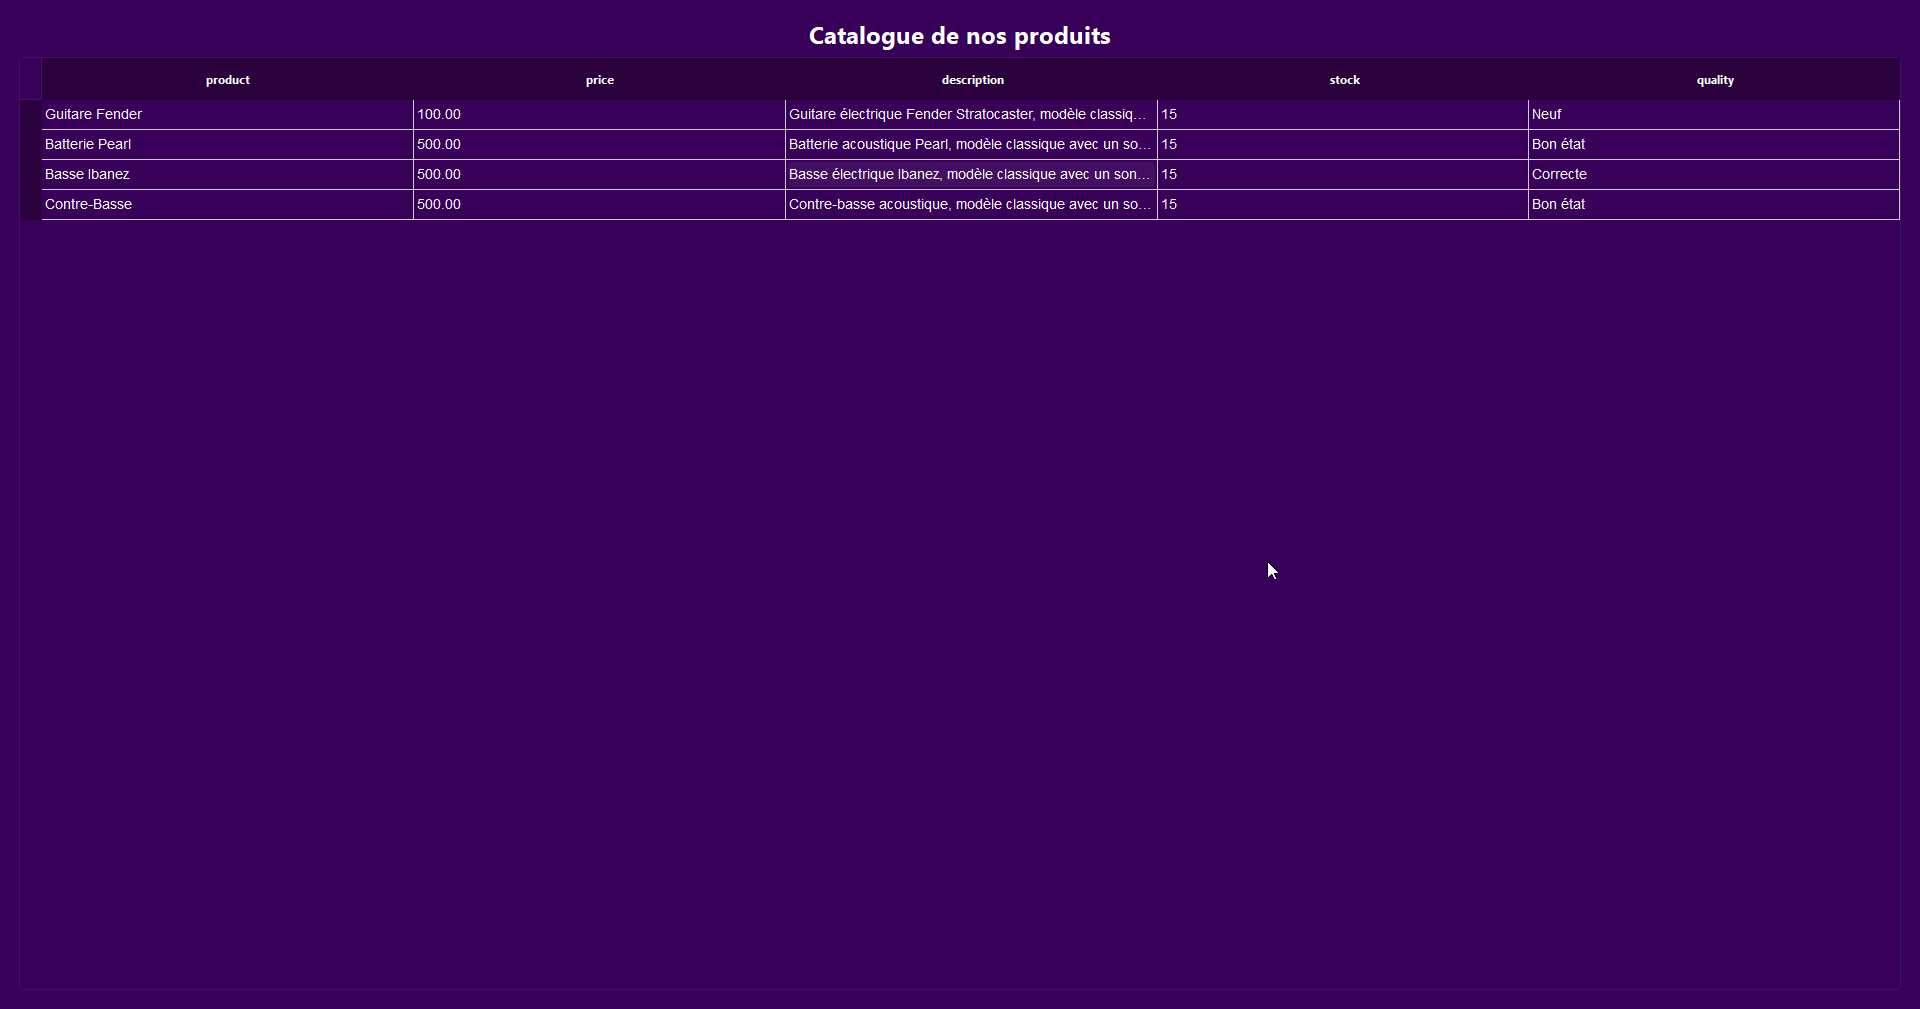
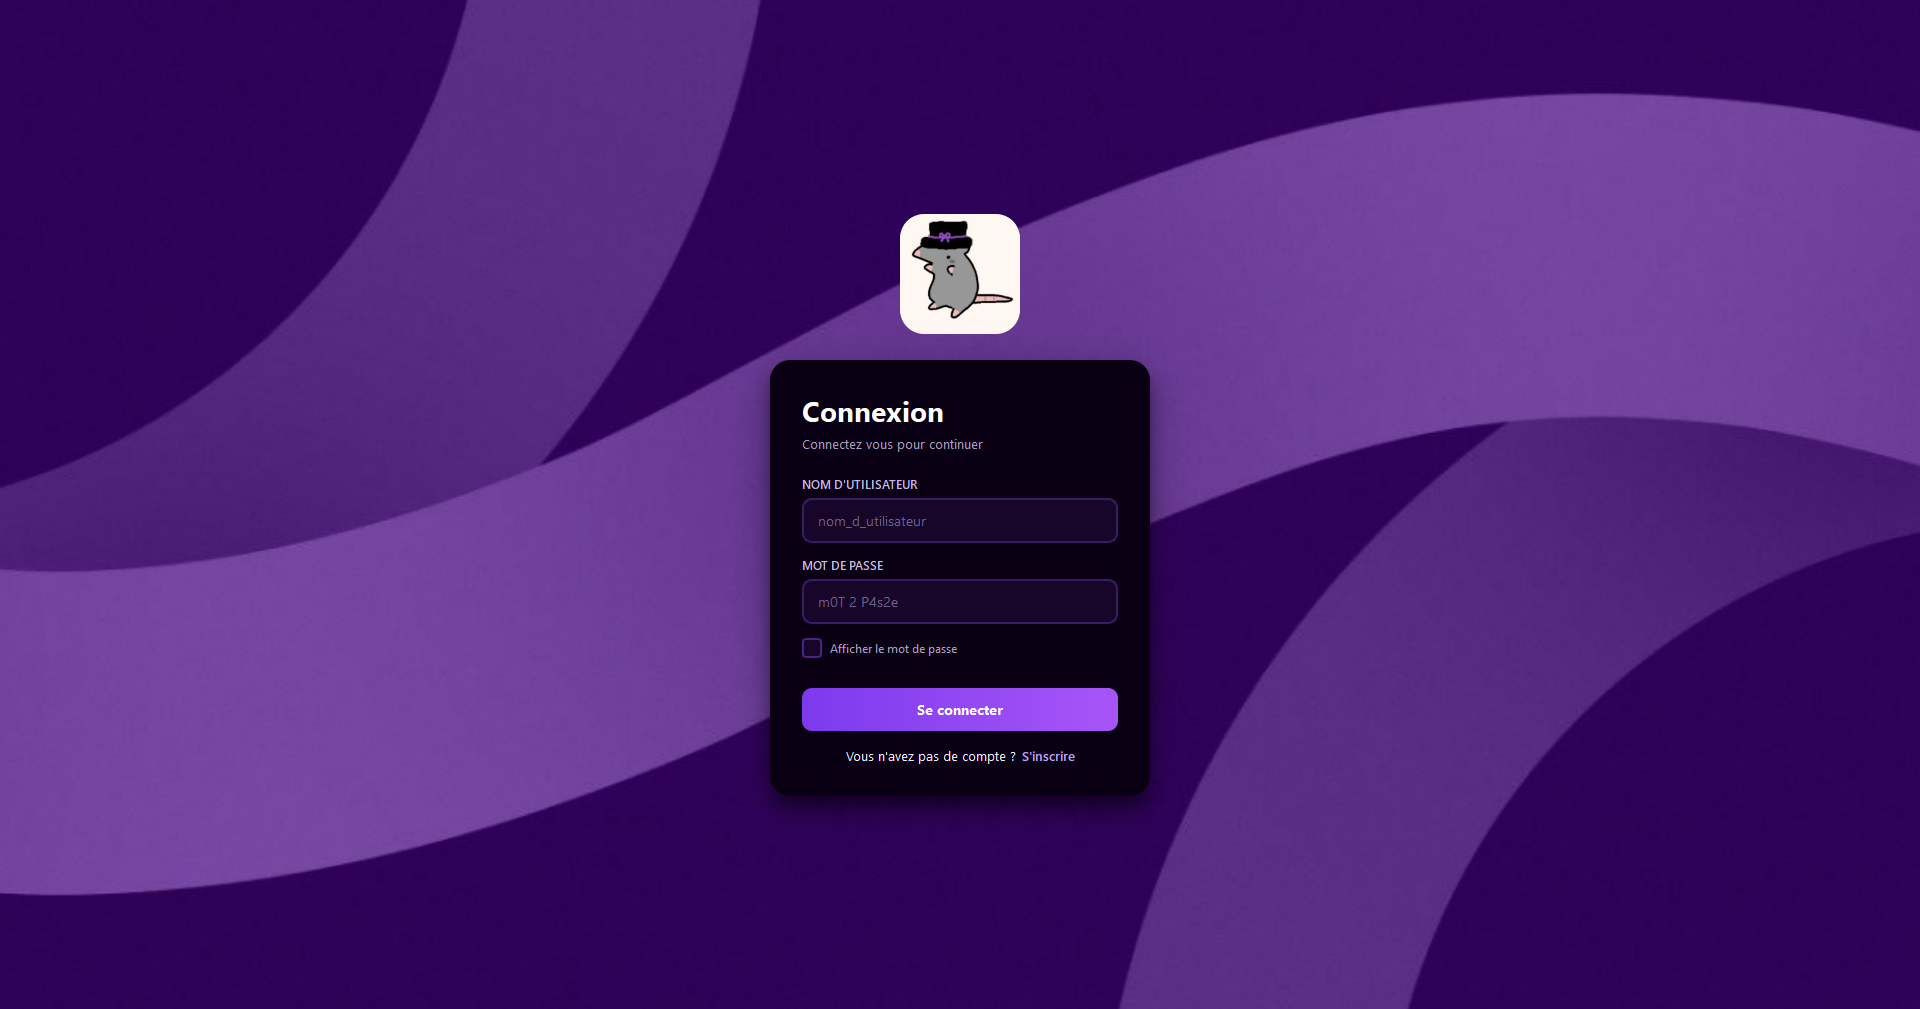
flash intro + user pp

diff --git a/app.py b/app.py
@@ -1,10 +1,14 @@
 from __future__ import annotations
 
-from PyQt6.QtCore import Qt
-from PyQt6.QtGui import QColor, QPainter, QPixmap, QPaintEvent, QResizeEvent
+from PyQt6.QtCore import Qt, QPropertyAnimation, QRectF, QSequentialAnimationGroup
+from PyQt6.QtGui import (
+    QColor, QFont, QFontDatabase, QIcon, QKeyEvent, QPainter, QPainterPath,
+    QPaintEvent, QPixmap, QResizeEvent, QShowEvent,
+)
 from PyQt6.QtWidgets import (
     QApplication, QCheckBox, QComboBox, QDialog, QFrame, QGraphicsDropShadowEffect, QHBoxLayout, QLabel,
-    QLineEdit, QMainWindow, QPushButton, QSizePolicy, QStackedWidget, QVBoxLayout, QWidget, QListView
+    QLineEdit, QMainWindow, QPushButton, QSizePolicy, QStackedWidget, QVBoxLayout, QWidget, QListView,
+    QGraphicsOpacityEffect,
 )
 
 from dataclasses import dataclass
@@ -21,6 +25,12 @@ import src.config as config
 BASE_DIR: Final[Path] = Path(__file__).parent
 STYLESHEET_PATH: Final[Path] = BASE_DIR / "assets/style.qss"
 CARD_WIDTH: Final[int] = 380
+FAVICON_PATH: Final[Path] = BASE_DIR / "assets/img/favicon.png"
+ICON_PATH: Final[Path] = BASE_DIR / "assets/img/icon.png"
+USER_PLACEHOLDER_PATH: Final[Path] = BASE_DIR / "assets/img/user.png"
+BACKGROUND_PATH: Final[Path] = BASE_DIR / "assets/img/background.png"
+BACKGROUND_HOLES_PATH: Final[Path] = BASE_DIR / "assets/img/holes_background.png"
+FONT_PATH: Final[Path] = BASE_DIR / "assets/font/Kablammo/Kablammo-Regular-VariableFont_MORF.ttf"
 
 # CONFIG AUTO DE L'APP
 HEADERT: list[type]
@@ -107,7 +117,37 @@ class BackgroundWidget(QWidget):
         painter.drawPixmap(x, y, self._scaled)
         painter.end()
 
-def make_background(card: QFrame, bg_path: Path) -> QWidget:
+class RoundedImage(QWidget):
+    """Image carrée aux coins arrondis.
+    """
+
+    def __init__(self, image_path: Path, size: int = 120, radius: int = 24) -> None:
+        super().__init__()
+        self.setFixedSize(size, size)
+        self._radius: int = radius
+        self._pixmap: QPixmap = QPixmap(str(image_path))
+        if not self._pixmap.isNull():
+            self._pixmap = self._pixmap.scaled(
+                self.size(),
+                Qt.AspectRatioMode.KeepAspectRatioByExpanding,
+                Qt.TransformationMode.SmoothTransformation,
+            )
+
+    def paintEvent(self, event: QPaintEvent | None) -> None:
+        painter = QPainter(self)
+        painter.setRenderHint(QPainter.RenderHint.Antialiasing)
+        path = QPainterPath()
+        path.addRoundedRect(QRectF(self.rect()), self._radius, self._radius)
+        painter.setClipPath(path)
+        if self._pixmap.isNull():
+            painter.fillPath(path, QColor("#020202"))  # Noir si il n'y a pas d'image
+        else:
+            x = (self.width() - self._pixmap.width()) // 2
+            y = (self.height() - self._pixmap.height()) // 2
+            painter.drawPixmap(x, y, self._pixmap)
+        painter.end()
+
+def make_background(card: QFrame, header: QWidget | None = None, bg_path: Path = BACKGROUND_PATH) -> QWidget:
     """Crée le widget d'arrière plan avec une carte au centre.
 
     Args:
@@ -122,6 +162,9 @@ def make_background(card: QFrame, bg_path: Path) -> QWidget:
  
     layout = QVBoxLayout(root)
     layout.addStretch()
+    if header is not None:
+        layout.addWidget(header, alignment=Qt.AlignmentFlag.AlignHCenter)
+        layout.addSpacing(20)
     layout.addWidget(card, alignment=Qt.AlignmentFlag.AlignHCenter)
     layout.addStretch()
     return root
@@ -154,7 +197,7 @@ class SourceDialog(QDialog):
         """
         super().__init__()
         self.setWindowTitle("Rackeur | Type de la base de données")
-        self.setFixedSize(480, 420)
+        self.setFixedSize(480, 600)
  
         content = QWidget()
         layout = QVBoxLayout(content)
@@ -192,7 +235,7 @@ class SourceDialog(QDialog):
         self.continue_button.clicked.connect(self.accept)
         layout.addWidget(self.continue_button)
  
-        root = make_background(make_card(content), BASE_DIR / "assets/img/background.png")
+        root = make_background(make_card(content), RoundedImage(USER_PLACEHOLDER_PATH))
         outer = QVBoxLayout(self)
         outer.setContentsMargins(0, 0, 0, 0)
         outer.addWidget(root)
@@ -310,7 +353,7 @@ class MainPage(QMainWindow):
         layout = QVBoxLayout(content)
         layout.addWidget(title)
         layout.addWidget(subtitle)
-        self.setCentralWidget(make_background(make_card(content), BASE_DIR / "assets/img/background.png"))
+        self.setCentralWidget(make_background(make_card(content), RoundedImage(USER_PLACEHOLDER_PATH)))
             
 class AuthWindow(QMainWindow):
     """Crée la fenêtre d'autentification en utilisant le template définit plus haut.
@@ -323,8 +366,8 @@ class AuthWindow(QMainWindow):
         """
         super().__init__()
         self.setWindowTitle("Rackeur | Bienvenue")
-        self.resize(520, 700)
-        self.setMinimumSize(440, 640)
+        self.resize(520, 820)
+        self.setMinimumSize(440, 820)
         self.main_page: MainPage | None = None
  
         self.login_page: FormPage = FormPage(
@@ -355,7 +398,7 @@ class AuthWindow(QMainWindow):
         self.stack.addWidget(self.login_page)
         self.stack.addWidget(self.register_page)
  
-        self.setCentralWidget(make_background(make_card(self.stack), BASE_DIR / "assets/img/background.png"))
+        self.setCentralWidget(make_background(make_card(self.stack), RoundedImage(USER_PLACEHOLDER_PATH)))
  
         self.login_page.switch_button.clicked.connect(
             lambda: self.show_page(self.REGISTER_INDEX)
@@ -434,6 +477,87 @@ class AuthWindow(QMainWindow):
             self.show_page(self.LOGIN_INDEX)
             page.show_message("Compte créé, mais la connexion a échoué. Réessayez.")
 
+class SplashDialog(QDialog):
+    """Écran titre : fondu entrant, pause, fondu sortant (2s), passer en appuyant sur la touche Entrer.
+    """
+    
+    FADE_MS: Final[int] = 500
+    HOLD_MS: Final[int] = 3000
+
+    def __init__(self) -> None:
+        super().__init__()
+        self.setWindowTitle("The Rackeur")
+        self.setWindowFlags(Qt.WindowType.Dialog | Qt.WindowType.FramelessWindowHint)
+        self.setWindowState(Qt.WindowState.WindowMaximized)
+
+        font_id = QFontDatabase.addApplicationFont(str(FONT_PATH))
+        families = QFontDatabase.applicationFontFamilies(font_id) if font_id != -1 else []
+
+        title = QLabel("The Rackeur")
+        title.setObjectName("splashTitle")
+        title.setAlignment(Qt.AlignmentFlag.AlignCenter)
+        if families:
+            title.setFont(QFont(families[0]))
+
+        icon = QLabel()
+        icon.setPixmap(
+            QPixmap(str(ICON_PATH)).scaled(
+                400, 400,
+                Qt.AspectRatioMode.KeepAspectRatio,
+                Qt.TransformationMode.SmoothTransformation,
+            )
+        )
+        icon.setAlignment(Qt.AlignmentFlag.AlignCenter)
+
+        content = QWidget()
+        content_layout = QVBoxLayout(content)
+        content_layout.setSpacing(24)
+        content_layout.addWidget(title)
+        content_layout.addWidget(icon)
+
+        self._effect: QGraphicsOpacityEffect = QGraphicsOpacityEffect(content)
+        self._effect.setOpacity(0.0)
+        content.setGraphicsEffect(self._effect)
+
+        root = BackgroundWidget(BACKGROUND_PATH)
+        root_layout = QVBoxLayout(root)
+        root_layout.addStretch()
+        root_layout.addWidget(content, alignment=Qt.AlignmentFlag.AlignHCenter)
+        root_layout.addStretch()
+
+        outer = QVBoxLayout(self)
+        outer.setContentsMargins(0, 0, 0, 0)
+        outer.addWidget(root)
+
+        fade_in = QPropertyAnimation(self._effect, b"opacity", self)
+        fade_in.setDuration(self.FADE_MS)
+        fade_in.setStartValue(0.0)
+        fade_in.setEndValue(1.0)
+
+        fade_out = QPropertyAnimation(self._effect, b"opacity", self)
+        fade_out.setDuration(self.FADE_MS)
+        fade_out.setStartValue(1.0)
+        fade_out.setEndValue(0.0)
+
+        self._anim: QSequentialAnimationGroup = QSequentialAnimationGroup(self)
+        self._anim.addAnimation(fade_in)
+        self._anim.addPause(self.HOLD_MS)
+        self._anim.addAnimation(fade_out)
+        self._anim.finished.connect(self.accept)
+
+    def showEvent(self, event: QShowEvent | None) -> None:
+        super().showEvent(event)
+        self.activateWindow()
+        self.setFocus()
+        self._anim.start()
+
+    def keyPressEvent(self, event: QKeyEvent | None) -> None:
+        if event is not None and event.key() in (Qt.Key.Key_Return, Qt.Key.Key_Enter):
+            self._anim.stop()
+            self.accept()
+            return
+        super().keyPressEvent(event)
+
 #=============================================================================#
 # CHARGEMENT DE LA BASE DE DONNÉES EN FONCTION DU TYPE                        #
 #=============================================================================#
@@ -455,6 +579,7 @@ def load_database() -> None:
 #=============================================================================#
 def main() -> int:
     app = QApplication(sys.argv)
+    app.setWindowIcon(QIcon(str(FAVICON_PATH)))
     app.setStyle("Fusion")
     app.setStyleSheet(load_stylesheet())
  
@@ -466,6 +591,8 @@ def main() -> int:
     # Charger la base de données
     config.CSV = dialog.is_csv()
     load_database()
+    
+    SplashDialog().exec()
  
     # Afficher la fenêtre de connexion
     window = AuthWindow()

diff --git a/src/utils/session_utils.py b/src/utils/session_utils.py
@@ -2,8 +2,8 @@ from typing import NamedTuple
 
 import bcrypt # Hash des mots de passe (Identique à MySQL)
 
-from .csv_utils import *
-from .api_utils import *
+from .csv_utils import Database, IndexedRow, TEMP_DB
+from .api_utils import PWNED_COUNT
 from src import config as config
 
 # Seuls ces classes sont exportés avec "from session_utils import *", tout le reste est interne au script.
